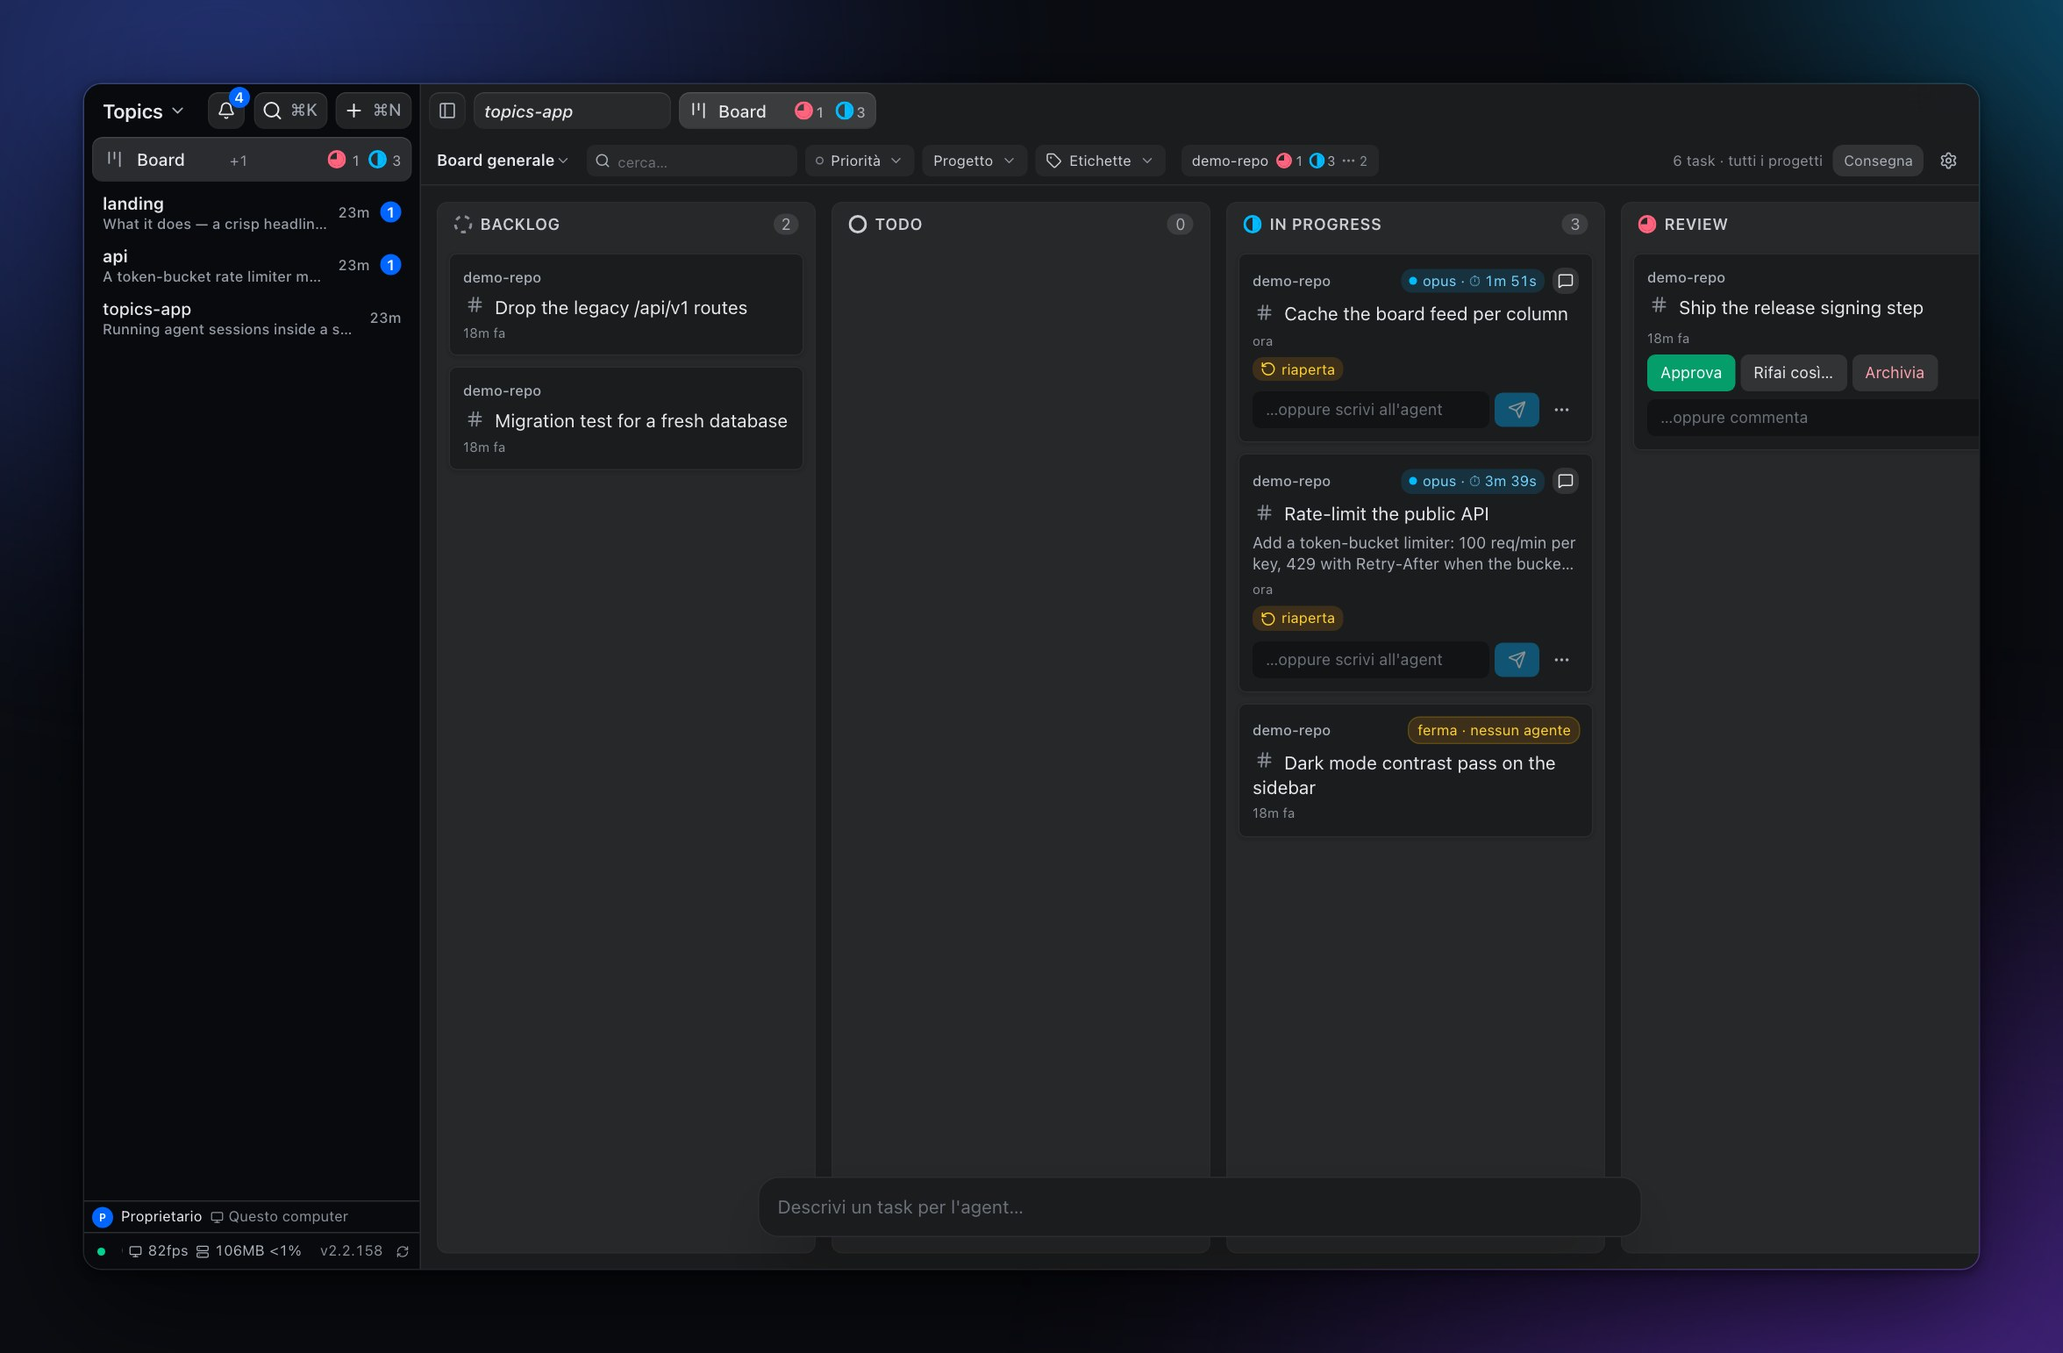
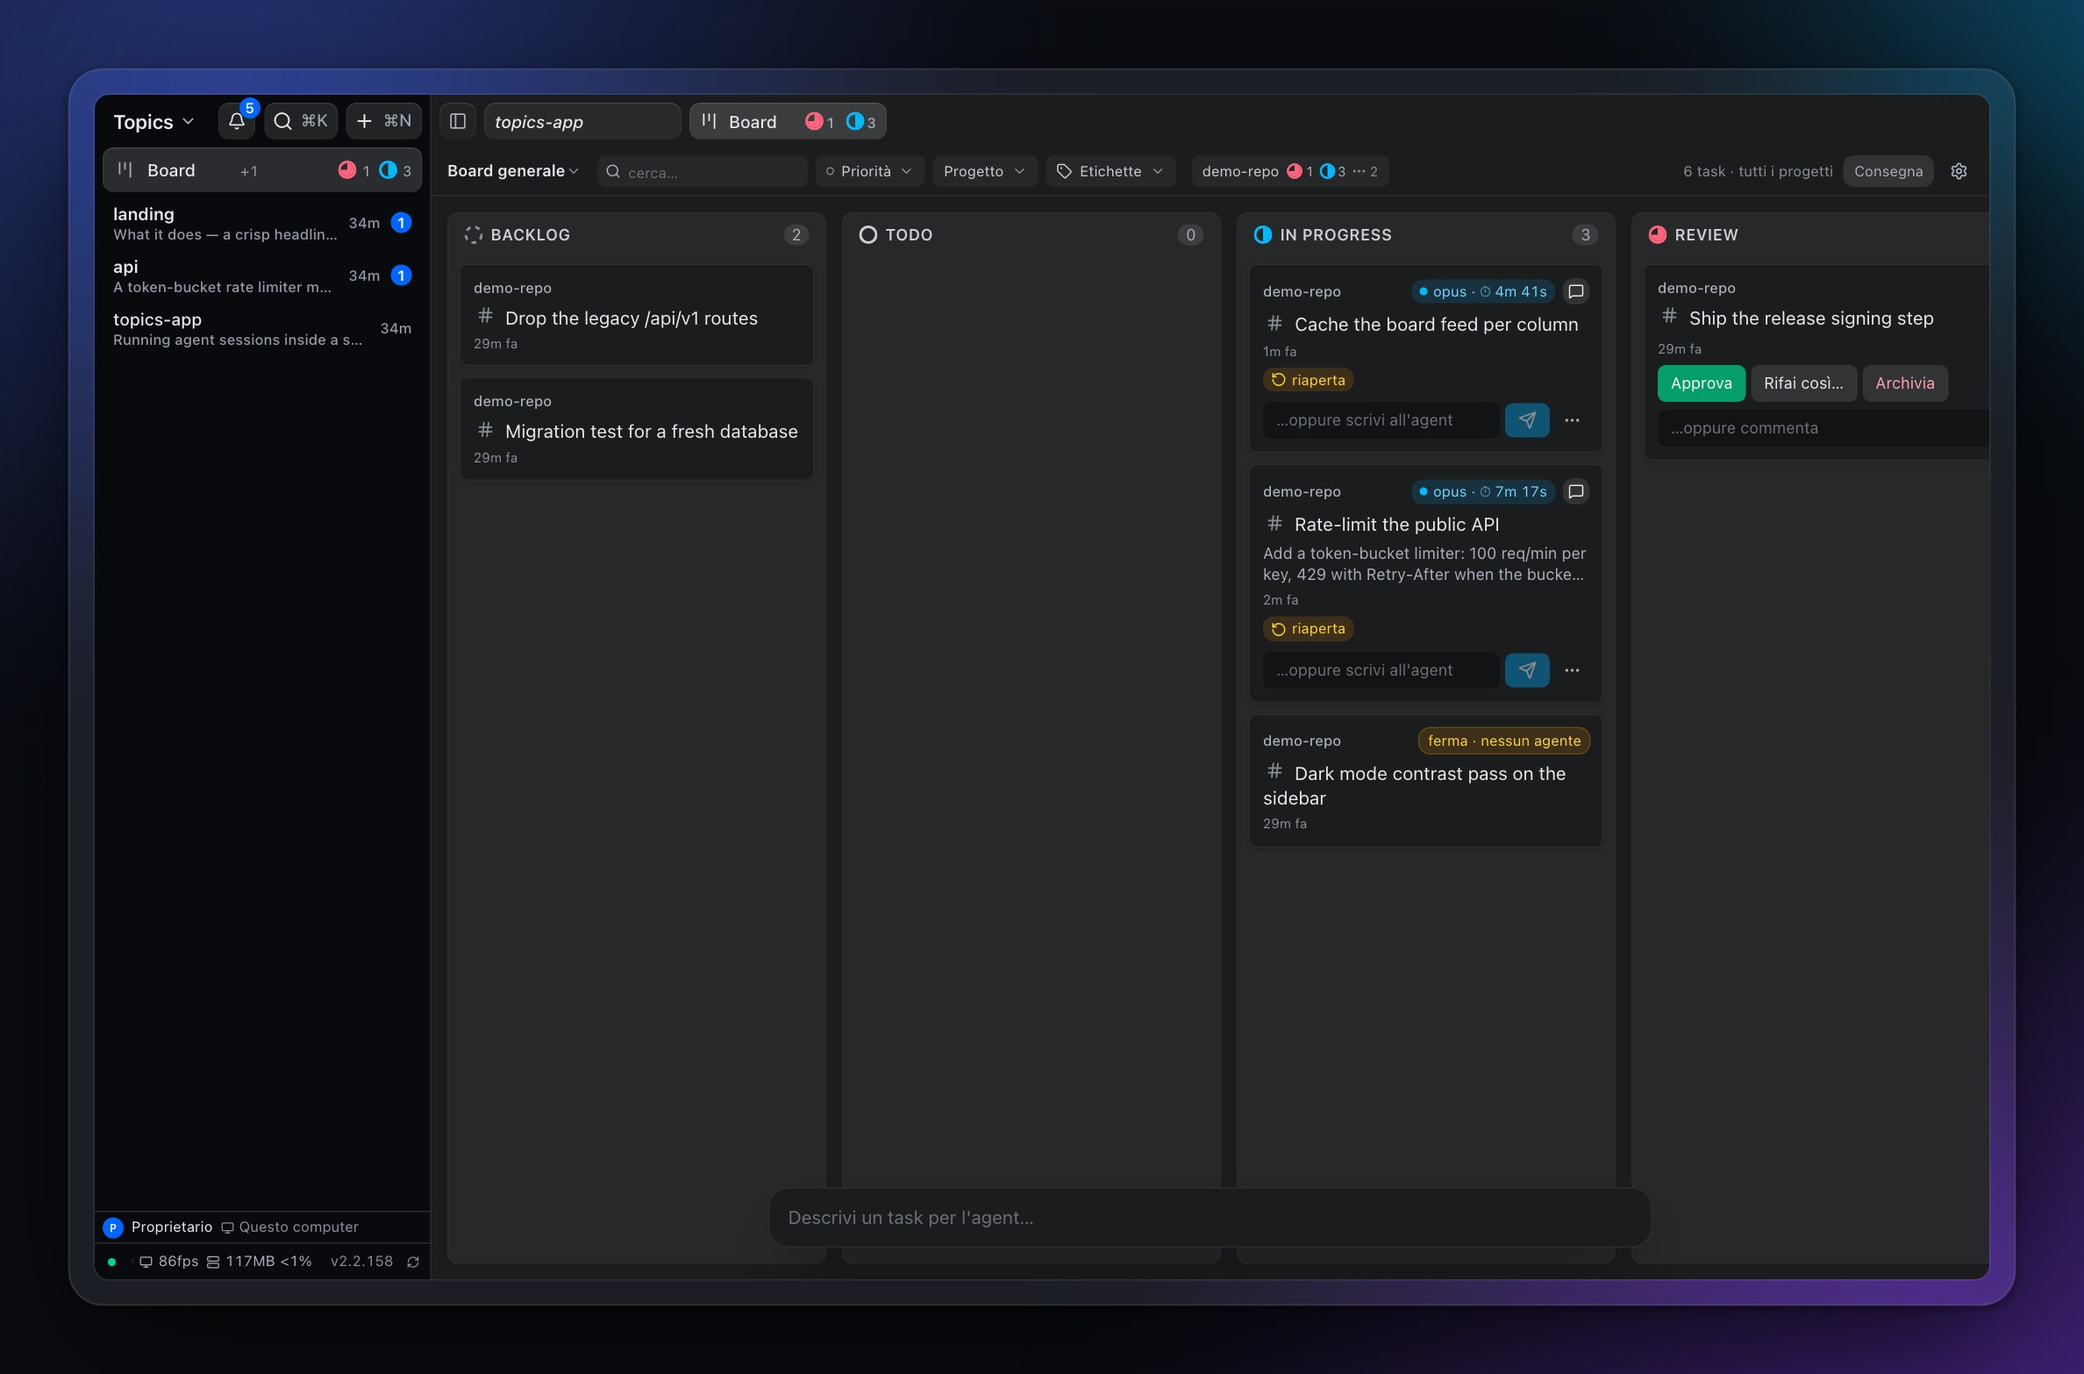
Un tooltip vero al posto di quello del sistema operativo, e la location nei filtri
'Il tooltip con un componente non dovrebbe mai usare cose native, ma
solo componenti ben disegnate' + 'passando sui filtri dovrebbe dare un
minimo di informazioni sul progetto, magari anche la location'.

Il title= nativo arriva dopo oltre un secondo (ritardo del sistema, non
regolabile), lo disegna il sistema quindi ignora i colori dell'app, e
tiene una riga sola. Ora Shared/Tooltip.tsx: 350ms in apertura, subito
col fuoco da tastiera, si ribalta se sotto non ci sta, rientra nella
finestra, ESC lo chiude, pointer-events-none per non rubare il click.

Il tooltip dei filtri ora dice nome, DOVE STA su disco (homeTilde per
togliere i 16 caratteri uguali per tutti) e i conteggi. Se il progetto
non e' nell'indice lo dice invece di lasciare un buco.

Il test TOPBAR-08 leggeva l'attributo title: ora apre il tooltip col
mouse e misura che stia dentro la finestra e sparisca all'uscita.

diff --git a/client/src/components/Shared/Tooltip.tsx b/client/src/components/Shared/Tooltip.tsx
@@ -1,0 +1,136 @@
+import { useEffect, useId, useLayoutEffect, useRef, useState, type ReactNode } from 'react';
+import { createPortal } from 'react-dom';
+
+/**
+ * IL TOOLTIP DELL'APP. Nessun `title=` nativo dove l'informazione conta.
+ *
+ * Il nativo non è «uguale ma brutto», fa tre cose che qui non vanno bene:
+ * arriva dopo un ritardo del sistema operativo che non si può regolare (su
+ * macOS oltre un secondo, e chi passa sopra un filtro ha già mollato), lo
+ * disegna il sistema quindi non conosce i colori dell'app, e non tiene più di
+ * una riga di testo: niente titolo + dettaglio, niente percorso in monospazio.
+ * Segnalato: «il tooltip con un componente non dovrebbe mai usare cose native,
+ * ma solo componenti ben disegnate».
+ *
+ * Non usa una libreria: serve un rettangolo posizionato, e `@floating-ui` sono
+ * 12 kB per un `getBoundingClientRect` e due `Math.min`.
+ */
+
+/** Quanto aspetta prima di comparire. Abbastanza da non lampeggiare mentre il
+ *  mouse attraversa la fila di filtri, poco da non farsi aspettare. */
+const APERTURA_MS = 350;
+/** Quanto resta dopo che il mouse esce: zero fa sparire il tooltip mentre ci
+ *  stai entrando sopra per leggerlo con calma. */
+const CHIUSURA_MS = 120;
+/** Distanza dal bordo dell'elemento e dal bordo della finestra. */
+const STACCO = 6;
+const MARGINE_FINESTRA = 8;
+
+export interface TooltipProps {
+  /** Il contenuto. Una stringa per il caso semplice, JSX quando serve una
+   *  struttura (titolo + percorso + conteggi). */
+  content: ReactNode;
+  /** L'elemento che lo attiva. Riceve gli handler, quindi dev'essere uno solo. */
+  children: ReactNode;
+  /** Sopra invece che sotto, quando sotto non c'è spazio per natura (una barra
+   *  a fondo pagina). Il ribaltamento automatico resta comunque attivo. */
+  side?: 'top' | 'bottom';
+  /** Spegne il tooltip senza smontare il figlio: per i casi in cui il
+   *  contenuto non c'è (nessun dettaglio da dare) e un rettangolo vuoto
+   *  sarebbe peggio del silenzio. */
+  disabled?: boolean;
+}
+
+export function Tooltip({ content, children, side = 'bottom', disabled = false }: TooltipProps) {
+  const [aperto, setAperto] = useState(false);
+  const [pos, setPos] = useState<{ top: number; left: number } | null>(null);
+  const wrapRef = useRef<HTMLSpanElement | null>(null);
+  const tipRef = useRef<HTMLDivElement | null>(null);
+  const timer = useRef<ReturnType<typeof setTimeout> | null>(null);
+  const id = useId();
+
+  const stopTimer = () => { if (timer.current) { clearTimeout(timer.current); timer.current = null; } };
+  const apri = () => { if (disabled || !content) return; stopTimer(); timer.current = setTimeout(() => setAperto(true), APERTURA_MS); };
+  const chiudi = () => { stopTimer(); timer.current = setTimeout(() => setAperto(false), CHIUSURA_MS); };
+
+  // Smontando col timer in volo, `setAperto` scriverebbe su un componente che
+  // non c'è più. Succede davvero: i filtri si rimontano quando cambia la board.
+  useEffect(() => stopTimer, []);
+
+  // ESC lo chiude. Chi naviga da tastiera deve poterselo togliere di mezzo
+  // senza spostare il fuoco.
+  useEffect(() => {
+    if (!aperto) return;
+    const onKey = (e: KeyboardEvent) => { if (e.key === 'Escape') { stopTimer(); setAperto(false); } };
+    window.addEventListener('keydown', onKey);
+    return () => window.removeEventListener('keydown', onKey);
+  }, [aperto]);
+
+  // La posizione si calcola DOPO il montaggio, quando il rettangolo del
+  // tooltip ha una dimensione vera: prima si può solo indovinare, e un
+  // tooltip largo indovinato stretto esce dallo schermo.
+  useLayoutEffect(() => {
+    if (!aperto) { setPos(null); return; }
+    const anchor = wrapRef.current?.firstElementChild ?? wrapRef.current;
+    const tip = tipRef.current;
+    if (!anchor || !tip) return;
+    const a = anchor.getBoundingClientRect();
+    const t = tip.getBoundingClientRect();
+    const sotto = a.bottom + STACCO;
+    const sopra = a.top - t.height - STACCO;
+    // Si ribalta solo se dalla parte scelta NON ci sta. Ribaltare sempre in
+    // base a «metà schermo» fa saltare il tooltip mentre scorri.
+    let top = side === 'bottom' ? sotto : sopra;
+    if (side === 'bottom' && sotto + t.height > window.innerHeight - MARGINE_FINESTRA && sopra >= MARGINE_FINESTRA) top = sopra;
+    if (side === 'top' && sopra < MARGINE_FINESTRA && sotto + t.height <= window.innerHeight - MARGINE_FINESTRA) top = sotto;
+    // Centrato sull'ancora, poi rientrato nella finestra: un filtro all'estrema
+    // destra avrebbe metà tooltip fuori.
+    const centro = a.left + a.width / 2 - t.width / 2;
+    const left = Math.max(MARGINE_FINESTRA, Math.min(centro, window.innerWidth - t.width - MARGINE_FINESTRA));
+    setPos({ top: Math.max(MARGINE_FINESTRA, top), left });
+  }, [aperto, side, content]);
+
+  if (disabled || !content) return <>{children}</>;
+
+  return (
+    <>
+      <span
+        ref={wrapRef}
+        // `contents`: il wrapper non deve esistere per il layout, altrimenti
+        // un tooltip su un figlio flex ne cambia la disposizione.
+        className="contents"
+        onMouseEnter={apri}
+        onMouseLeave={chiudi}
+        // Il fuoco da tastiera lo apre SUBITO: chi tabula ha già dichiarato
+        // dove sta guardando, farlo aspettare 350ms è solo attrito.
+        onFocus={() => { if (!disabled && content) { stopTimer(); setAperto(true); } }}
+        onBlur={chiudi}
+        aria-describedby={aperto ? id : undefined}
+      >
+        {children}
+      </span>
+      {aperto && createPortal(
+        <div
+          ref={tipRef}
+          id={id}
+          role="tooltip"
+          data-testid="app-tooltip"
+          // `pointer-events-none`: il tooltip non deve mai rubare il mouse al
+          // bottone che c'è sotto, o un click sul bordo non arriva.
+          className="pointer-events-none fixed z-[100] max-w-xs rounded-lg border border-app-border bg-app-panel px-2.5 py-1.5 text-[11px] leading-snug text-app-text shadow-lg"
+          style={{
+            top: pos?.top ?? -9999,
+            left: pos?.left ?? -9999,
+            // Invisibile finché non ha una posizione: un fotogramma nell'angolo
+            // in alto a sinistra si vede, ed è il difetto classico dei tooltip
+            // fatti in casa.
+            visibility: pos ? 'visible' : 'hidden',
+          }}
+        >
+          {content}
+        </div>,
+        document.body,
+      )}
+    </>
+  );
+}

diff --git a/client/src/components/Board/KanbanBoardPane.tsx b/client/src/components/Board/KanbanBoardPane.tsx
@@ -36,6 +36,8 @@ import { ProjectPickerBody } from './ProjectPicker';
 import { ProjectTaskCounts } from './atoms';
 import { countsSummary, projectTaskCounts } from '../../lib/projectTaskCounts';
 import { ProjectFavicon } from '../Shared/ProjectFavicon';
+import { Tooltip } from '../Shared/Tooltip';
+import { homeTilde } from '../../lib/homeTilde';
 import { UnifiedDiff } from './UnifiedDiff';
 import { useConfirm } from '../../hooks/useConfirm';
 import { CREATED_FLASH_MS, PRIORITY_DOT, PRIORITY_ORDER, PRIORITY_LABEL, type LiveUsage, type OpenTask } from './constants';
@@ -614,9 +616,33 @@ function InlineFilters({ filters, onFiltersChange, tasks, mode }: FilterPanelPro
     () => projectTaskCounts(tasks, (t) => (isProjectlessId(t.projectId) ? UNASSIGNED_PROJECT_ID : t.projectId)),
     [tasks],
   );
+  /**
+   * Il contenuto del tooltip di un filtro. Prima era una riga sola dentro un
+   * `title=` nativo: il sistema operativo la mostrava dopo un secondo abbondante
+   * e senza struttura. Segnalato: «passando sui filtri dovrebbe dare un minimo
+   * di informazioni sul progetto, magari anche la location».
+   *
+   * Tre cose, in ordine di quanto servono: il NOME (che nel chip è troncato a
+   * 13rem), DOVE STA su disco (l'unica cosa che distingue due progetti chiamati
+   * uguale in cartelle diverse), e come stanno i task.
+   */
   const countsTitle = (p: BoardProjectRef) => {
     const c = projectCounts[p.projectId];
-    return c ? `${p.name}. ${countsSummary(c, STATUS_LABEL)}` : `Filtra per ${p.name}`;
+    return (
+      <div className="space-y-1">
+        <div className="font-medium">{p.name}</div>
+        {p.path ? (
+          // Monospazio e a capo sul percorso: un path lungo su una riga sola
+          // diventa illeggibile, ed è proprio il dato che si viene a cercare.
+          <div className="break-all font-mono text-[10px] text-app-text-muted">{homeTilde(p.path)}</div>
+        ) : (
+          // Perché non c'è: senza questa riga il tooltip di un progetto sparito
+          // sembra solo un tooltip a cui manca un pezzo.
+          <div className="text-[10px] text-app-text-faint">Non è tra i progetti aperti: resta filtrabile, ma non si sa dove stia.</div>
+        )}
+        {c && <div className="text-[10px] text-app-text-muted">{countsSummary(c, STATUS_LABEL)}</div>}
+      </div>
+    );
   };
   const projectOptions = useMemo(() => {
     const refs = resolveProjectRefs(taskProjectIds.filter((id) => !isProjectlessId(id)), projectIndex);
@@ -846,13 +872,13 @@ function InlineFilters({ filters, onFiltersChange, tasks, mode }: FilterPanelPro
               const on = selectedProjectIds.includes(p.projectId);
               const shown = i < inlineProjects;
               return (
+                // Il `key` sta sul Tooltip: è lui il figlio della lista ora.
+                <Tooltip key={p.projectId} content={countsTitle(p)}>
                 <button
-                  key={p.projectId}
                   onClick={() => toggleProject(p)}
                   aria-hidden={!shown}
                   tabIndex={shown ? 0 : -1}
                   data-testid={`project-filter-chip-${p.projectId}`}
-                  title={countsTitle(p)}
                   className={`${chip(on)} max-w-[13rem] ${shown ? '' : 'invisible'}`}
                 >
                   {p.path ? <ProjectFavicon path={p.path} size={12} /> : <span className="h-1.5 w-1.5 shrink-0 rounded-full border border-app-text-faint" />}
@@ -860,6 +886,7 @@ function InlineFilters({ filters, onFiltersChange, tasks, mode }: FilterPanelPro
                   {projectCounts[p.projectId] && <ProjectTaskCounts counts={projectCounts[p.projectId]!} />}
                   {on && <Check className="h-3 w-3 shrink-0 text-emerald-400" />}
                 </button>
+                </Tooltip>
               );
             })}
           </div>

diff --git a/tests/e2e/board-topbar-legibility.spec.ts b/tests/e2e/board-topbar-legibility.spec.ts
@@ -436,8 +436,29 @@ test.describe("Top bar della kanban — si legge da sola", () => {
     // review 1 · in corso 1 · in coda 1 (il «todo» seminato nel beforeAll).
     await expect(conteggi).toHaveText("111");
     // I due chiusi non sono fra gli aperti, ma il dettaglio c'è nel tooltip.
-    await expect(chipAlfa).toHaveAttribute("title", /Review: 1/);
-    await expect(chipAlfa).toHaveAttribute("title", /Done: 2/);
+    // NON un `title` nativo: quello lo disegna il sistema operativo, arriva
+    // dopo oltre un secondo e sta su una riga sola. Ora è un componente, e il
+    // test lo apre davvero col mouse invece di leggere un attributo.
+    await expect(chipAlfa).not.toHaveAttribute("title", /./);
+    await chipAlfa.hover();
+    const tip = page.getByTestId("app-tooltip");
+    await expect(tip).toBeVisible({ timeout: 3000 });
+    await expect(tip).toContainText("Review: 1");
+    await expect(tip).toContainText("Done: 2");
+    // La LOCATION del progetto: è ciò che distingue due progetti con lo stesso
+    // nome, e nel tooltip vecchio non c'era proprio. I progetti di test stanno
+    // in /tmp, quindi qui `homeTilde` non accorcia niente e il path esce intero:
+    // va bene, l'asserzione è che il percorso CI SIA.
+    await expect(tip).toContainText(dirOf(PROJECTS[0]));
+    // Sta dentro la finestra: un tooltip mezzo fuori schermo non si legge.
+    const box = await tip.boundingBox();
+    expect(box).not.toBeNull();
+    expect(box!.x).toBeGreaterThanOrEqual(0);
+    expect(box!.x + box!.width).toBeLessThanOrEqual(1440);
+    // E se ne va da solo quando il mouse esce: un tooltip appiccicato copre
+    // la board.
+    await page.mouse.move(720, 700);
+    await expect(tip).toBeHidden({ timeout: 3000 });
 
     // 2. Lo stesso conteggio, con la stessa forma, dentro il menu «Progetto».
     await page.getByTestId("filter-project-chip").click();

diff --git a/client/src/lib/homeTilde.test.ts b/client/src/lib/homeTilde.test.ts
@@ -1,0 +1,27 @@
+import { describe, test, expect } from 'bun:test';
+import { homeTilde } from './homeTilde';
+
+describe('homeTilde', () => {
+  test('accorcia la home: è la parte uguale per tutti i progetti', () => {
+    expect(homeTilde('/Users/zorahrel/Projects/topics-app')).toBe('~/Projects/topics-app');
+    expect(homeTilde('/home/mario/src/app')).toBe('~/src/app');
+  });
+
+  test('la home nuda diventa ~, non ~/', () => {
+    expect(homeTilde('/Users/zorahrel')).toBe('~');
+  });
+
+  test('quello che non è una home resta intero: meglio lungo che sbagliato', () => {
+    expect(homeTilde('/opt/homebrew/bin')).toBe('/opt/homebrew/bin');
+    expect(homeTilde('/Users')).toBe('/Users');
+    expect(homeTilde('')).toBe('');
+  });
+
+  test('non morde a metà di un nome di cartella', () => {
+    // `/Users/zorahrel-backup` NON è dentro la home di `zorahrel`.
+    expect(homeTilde('/Users/zorahrel-backup/x')).toBe('~/x');
+    // Quello sopra è corretto (l'utente è `zorahrel-backup`). Questo invece
+    // verifica che il confine sia lo slash e non un prefisso qualsiasi:
+    expect(homeTilde('/UsersFake/zorahrel/x')).toBe('/UsersFake/zorahrel/x');
+  });
+});

diff --git a/client/src/lib/homeTilde.ts b/client/src/lib/homeTilde.ts
@@ -1,0 +1,23 @@
+/**
+ * `/Users/zorahrel/Projects/topics-app` → `~/Projects/topics-app`.
+ *
+ * Nel tooltip di un filtro il percorso è la riga che distingue due progetti
+ * chiamati uguale, ma i primi 16 caratteri sono gli stessi per tutti e
+ * mangiano lo spazio che serve alla parte che cambia.
+ *
+ * La home non si può leggere dal browser: arriva dal percorso di un progetto
+ * qualsiasi, oppure si passa esplicitamente. Se non si sa, il percorso resta
+ * intero — meglio lungo che sbagliato.
+ */
+
+/** Ricavata una volta dai path che passano di qui: `/Users/<tizio>` su macOS,
+ *  `/home/<tizio>` su Linux. Non indovina altro: un `/opt/qualcosa` resta com'è. */
+const HOME = /^(\/(?:Users|home)\/[^/]+)(?=\/|$)/;
+
+export function homeTilde(path: string): string {
+  if (!path) return path;
+  const m = HOME.exec(path);
+  if (!m) return path;
+  // Esattamente la home, senza niente dentro: `~`, non `~/`.
+  return path.length === m[1].length ? '~' : '~' + path.slice(m[1].length);
+}

diff --git a/README.md b/README.md
@@ -1,7 +1,7 @@
 # Topics
 
-**A desktop home for the coding agents you already run.** Every session gets its
-own topic, with its project, its terminal and its browser.
+**A desktop workspace for the coding agents you already run** — editor, diff
+viewer, terminal, browser and a task board, one topic at a time.
 
 Agents run inside Topics instead of one process each, so
 **[200 sessions answering at once fit in 162 MB of RAM](#numbers)**.
@@ -14,9 +14,15 @@ Agents run inside Topics instead of one process each, so
 
 ## What it does
 
-**One topic per thing you are doing.** A topic holds a chat, its project files,
-its Git changes, a terminal and a browser. Switching topic switches all of them
-at once, so you stop rebuilding context every time you change subject.
+**One topic per thing you are doing.** Each holds a chat, a file tree and code
+editor, a Git view with diffs, a terminal and a browser. Switching topic
+switches all of them at once, so you stop rebuilding context every time you
+change subject.
+
+**The browser is part of the tool, not a link that opens elsewhere.** It runs
+inside the topic, an agent can drive it, and you watch the real DOM rather than
+a video of it: text stays sharp and selectable, and it costs a fraction of a
+pixel stream.
 
 **Close the lid and come back.** Sessions survive a restart with their whole
 scrollback, not just the last screen. Most embedded terminals lose everything
